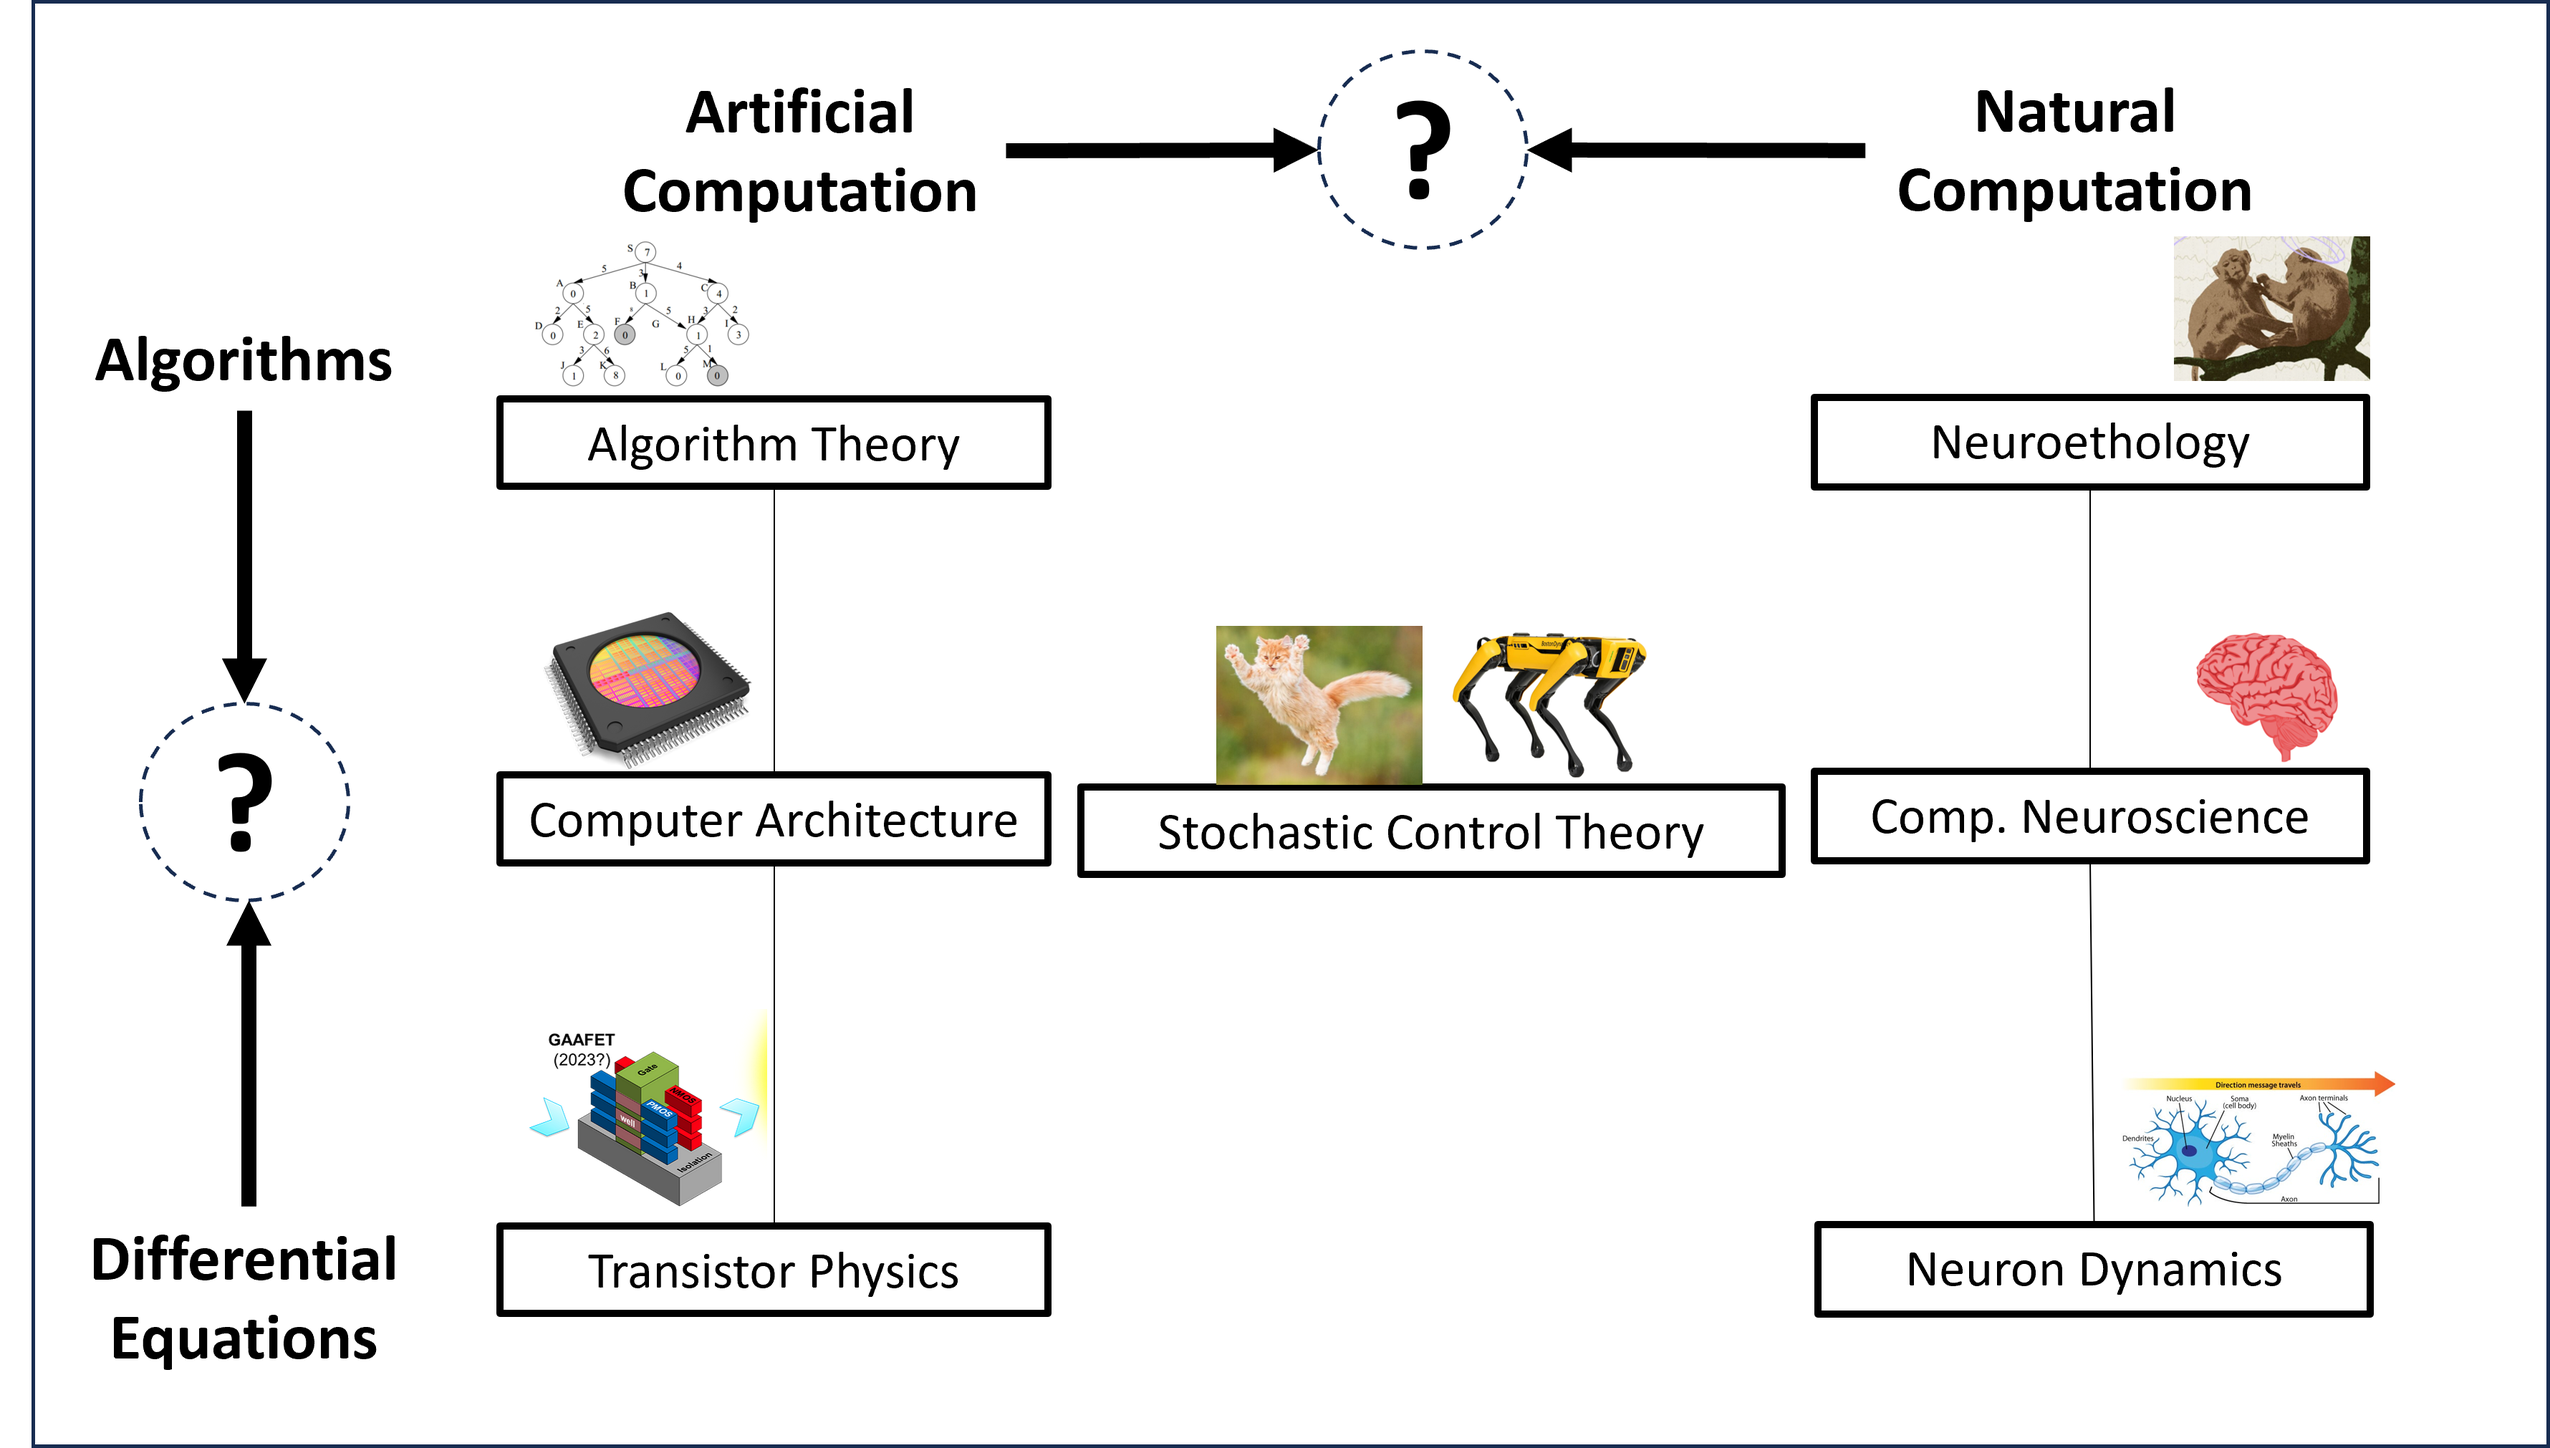
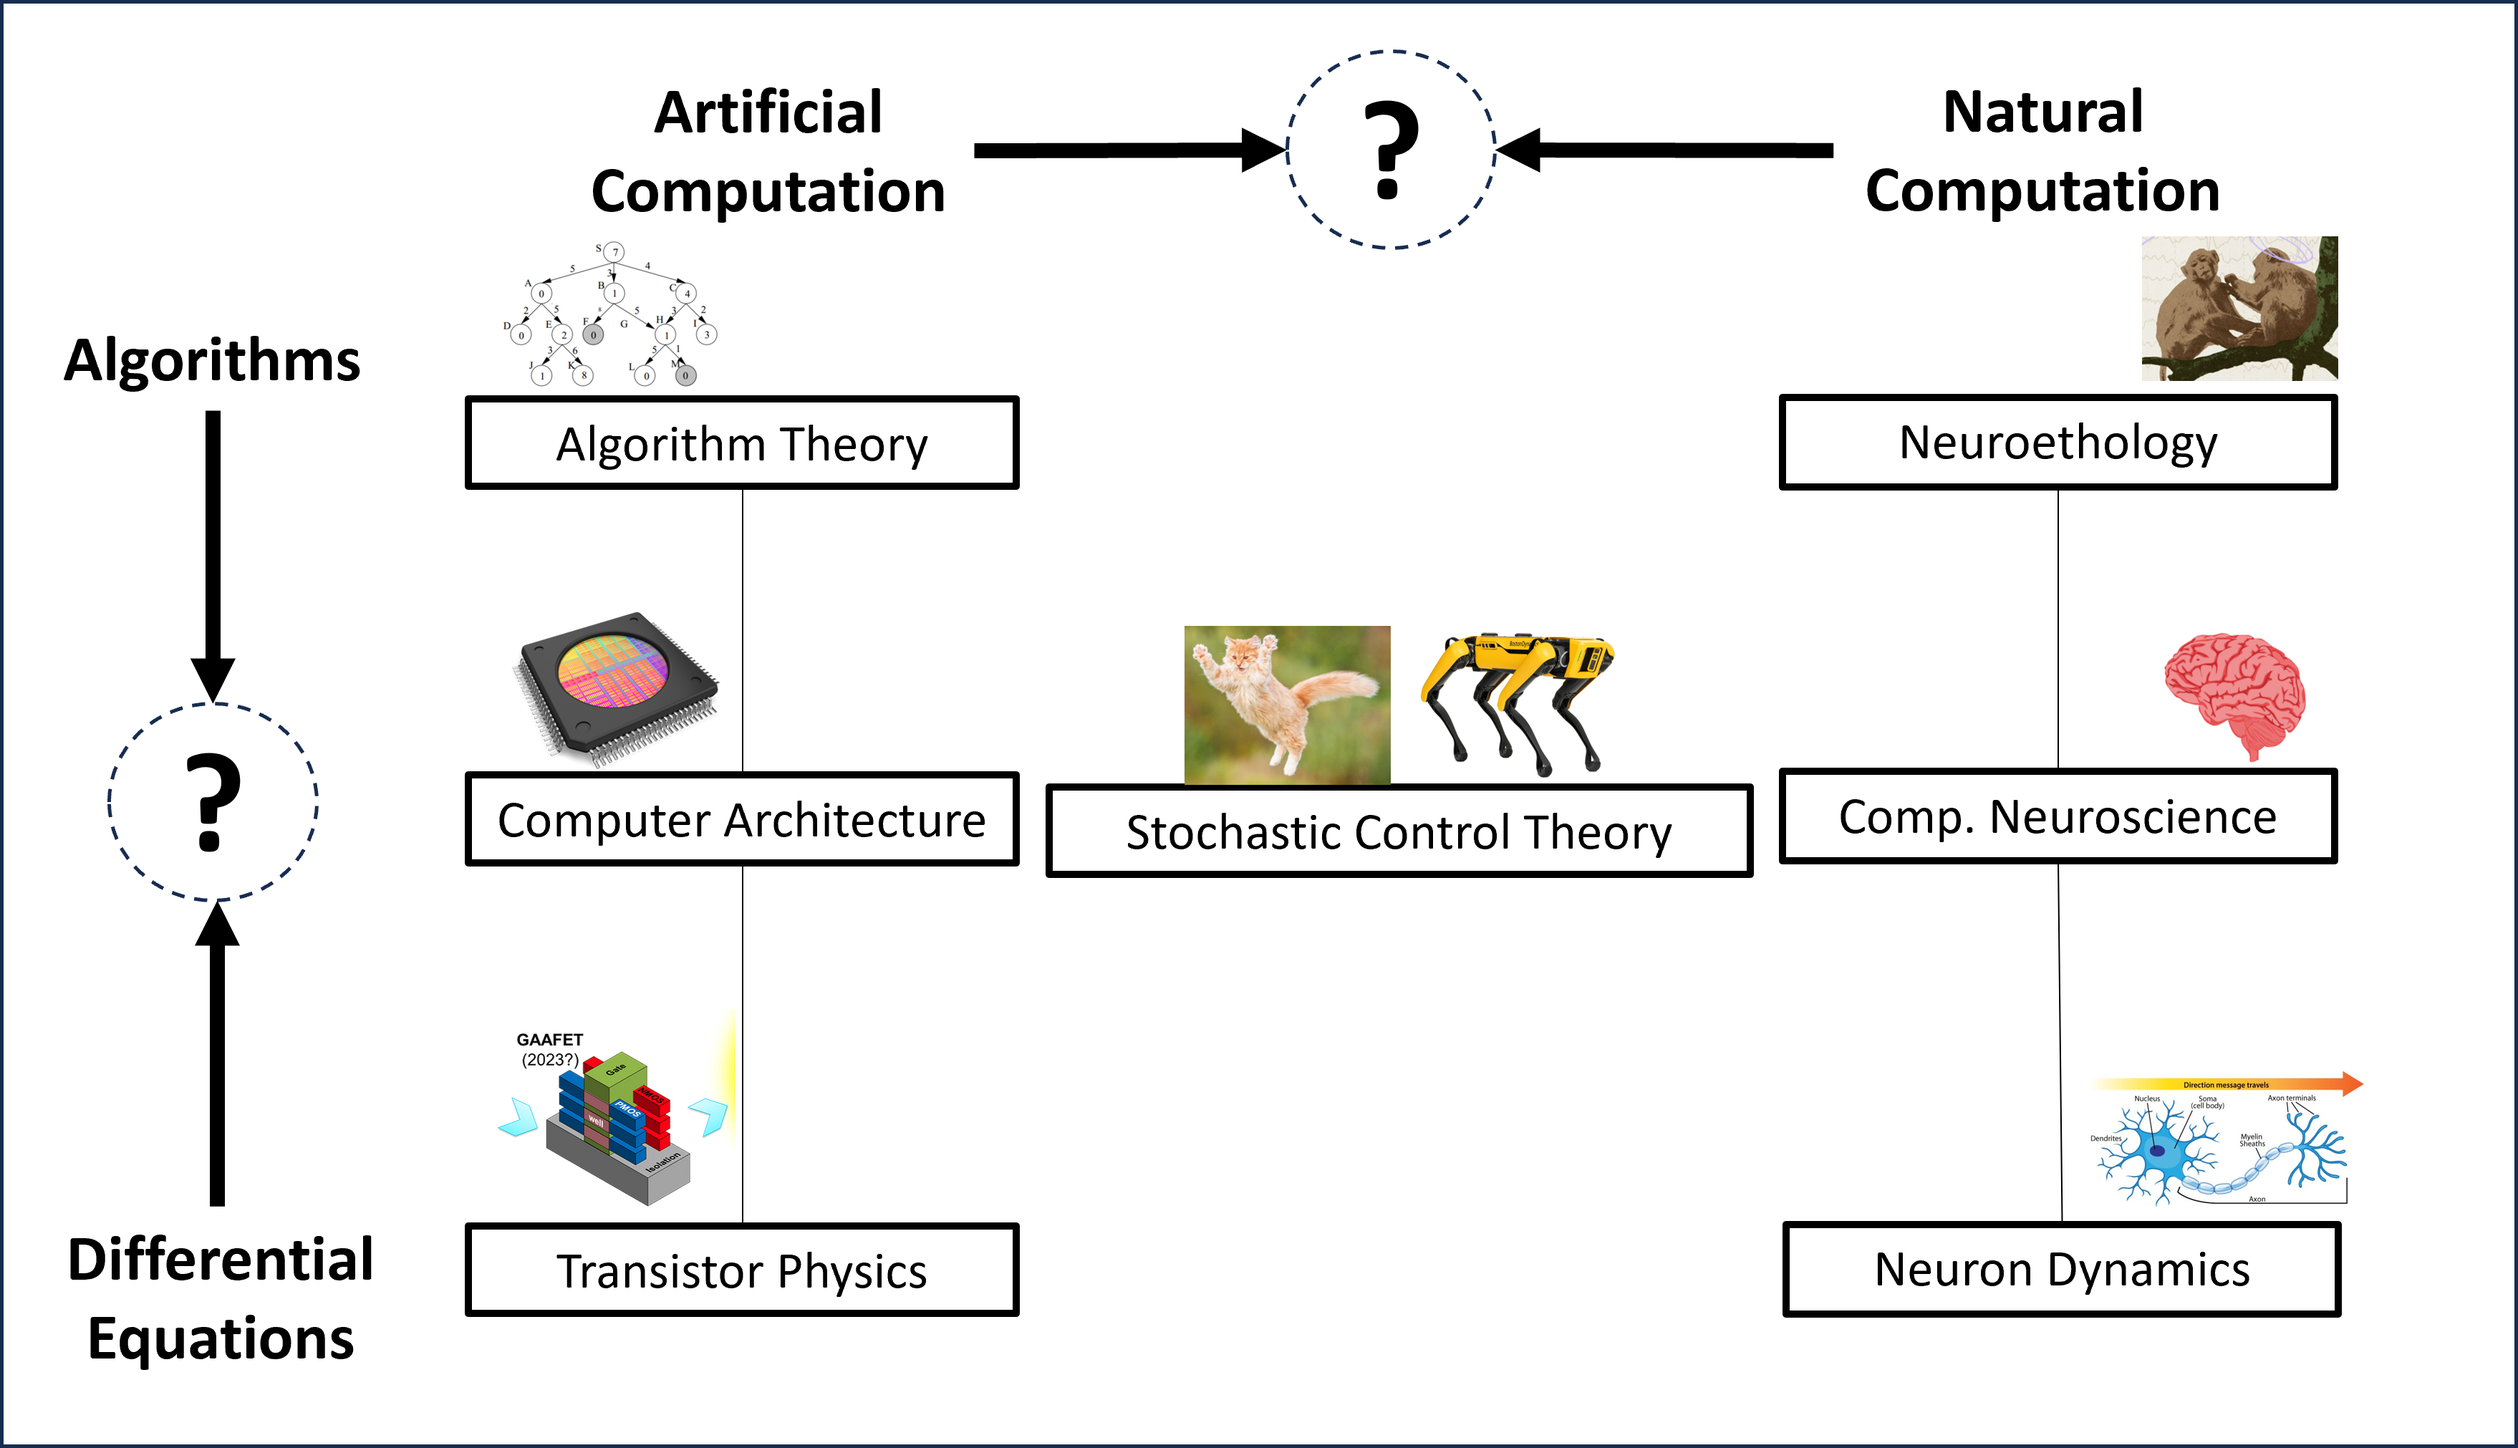
finish q&a

diff --git a/_pages/qanda.md b/_pages/qanda.md
@@ -13,6 +13,21 @@ Memorizing a list of 100 numbers is trivial for a computer, yet difficult for mo
 
 {% include figure.liquid loading="eager" path="assets/img/compute_diagram.png" class="img-fluid rounded z-depth-1" zoomable=true title="The two tensions in studying movement" %}
 
-These tensions, which have been discussed in Complexity Science and commentary on Marr's Levels of Analysis, also appeared in my research experience. Computer architecture sits at an odd part of the computer engineering stack. The models are symbolic, but the goal is to obtain results with physical meaning (e.g. saving power and time). Control theory is also odd; when microprocessor is controlling a robot, we have a symbolic system controlling an analogue, differential equation system. I plan on using stochastic control theory to begin connecting these domains of knowledge, since stochastic control is where probability meets dynamical systems, and probability is a bridge to symbolic descriptions via information theory.
+These tensions, which have been discussed in Complexity Science and commentary on Marr's Levels of Analysis, also appeared in my research experience. Computer architecture sits at an odd part of the computer engineering stack. The models are symbolic, but the goal is to obtain results with physical meaning (e.g. saving power and time). Control theory is also odd; when a microprocessor is controlling a robot, we have a symbolic system controlling an analogue, differential equation system. I plan on using stochastic control theory to begin connecting these domains of knowledge, since stochastic control is where probability meets dynamical systems, and probability is a bridge to symbolic descriptions via information theory.
 
 <h3 style="margin-top: 2rem;">What is a Computer?</h3>
+
+<h3>What is a Computer?</h3>
+
+The following three scenarios illustrate perspectives on computation I find interesting and important, especially when considering what it means to observe computation naturally and physically.
+
+**Scenario #1:** Let's say someone asks me "What is $$\cos(0.85)$$?". Instead of using a calculator, I find a Trigonometry Look-Up Table in the form of a physical book and flip to the page with the correct answer. Have I done a "computation"? Consider how some signal processing chips actually use Look-Up Tables to compute trigonometry functions. Also consider how the constant speculation occurring in your CPU (e.g. caching, branch prediction, prefetching) is a softer version of using Look-Up Tables, all for the purpose of speeding up computation. Searching through the table is a computation, which relies on a past computation filling out the table's entries to save the effort of recomputing those entries in the future. More broadly, encoding patterns ahead of time, whether in software or hardware, can shrink time, space, or energy resources required for computation. All domain-specific accelerators are designed off of this principle.
+
+**Scenario #2:** Imagine I flip a coin 100 times, and the coin comes up heads all 100 times. This is either an extraordinary coincidence, or there is some "computation" (e.g. the coin is weighted) behind the process. But in order for this event to be extraordinary at all, we must first interpret the process through a framework where "heads" and "tails" are meaningful symbols, despite "heads/tails" not being fundamental SI units of the universe. If the coin was blank on both sides, the flipping process loses its meaning. Thus, a model of computation is only as sophisticated as its interpreters, or the agents that respond to it. Computation emerges as an interaction between agents, observers, and environments.
+
+**Scenario #3:** When you see a ball rolling down a hill, you probably wouldn't think of that ball as a computer or a robot. But what actually distinguishes it from a computer? [Fish don't need to be alive to swim efficiently](https://fyfluiddynamics.com/2018/07/when-i-was-a-child-my-father-would-take-me-trout/). [Strandbeests](https://www.youtube.com/watch?v=C97kMKwZ2-g) do not need any electronics to walk. They passively follow the laws of physics as does the ball on the hill. In other words, computation is being offloaded into morphology. This is an instance of Scenario #1, where some "knowledge" of movement is in the body itself. Furthermore, these movements are dependent on the environment. The notion of "rolling" for the ball requires contact between the ball and a sloped surface. The notion of "walking" also requires a surface to stand on. Thus, computation emerges from interactions between neural substrates, morphology, and environment.
+
+<h3 style="margin-top: 2rem;">What Can Engineers Learn From Biology?</h3>
+I speak from experiences in neuromorphic computing and robotics, so this discussion is motivated by a comparison between robots and organisms. The key difference I see is that the products of engineering have an obligation to be understood by humans, while biology has no such requirement. Put differently, engineered systems are designed to be debugged, biological systems are not. To illustrate, roboticists should be able to write algorithms without understanding the details of operating systems, and a cache protocol should be designed without understanding a transistor's timing tolerances. As a result, engineered systems are highly modular and compressible into block diagrams, whereas biological systems are fully connected causality graphs. 
+
+The key takeaway is this: We may observe complex, agile, efficient, and intelligent systems in biology, but we shouldn't immediately conclude that these systems are existence proofs for engineered counterparts. One must first find where the engineering and biological epistemologies overlap, with the awareness that biological systems exist outside the modular knowledge framework of engineering.
